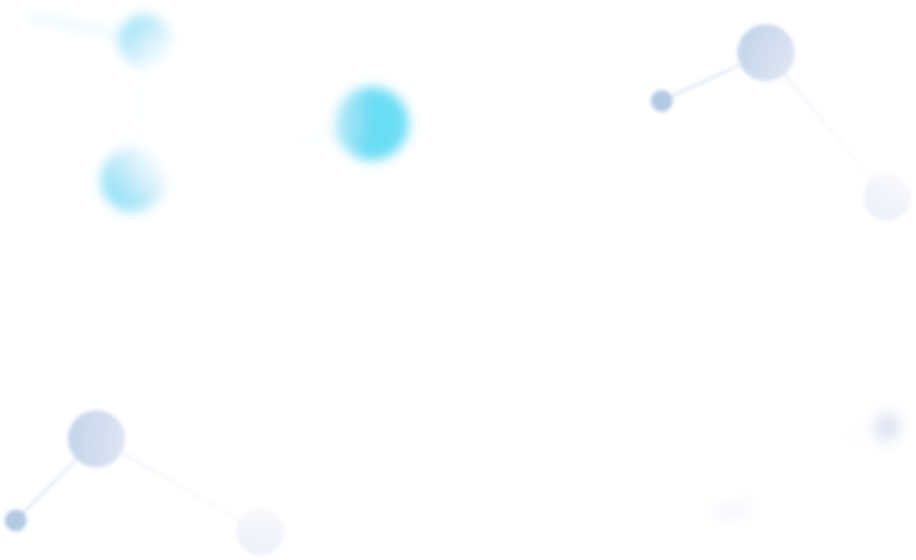
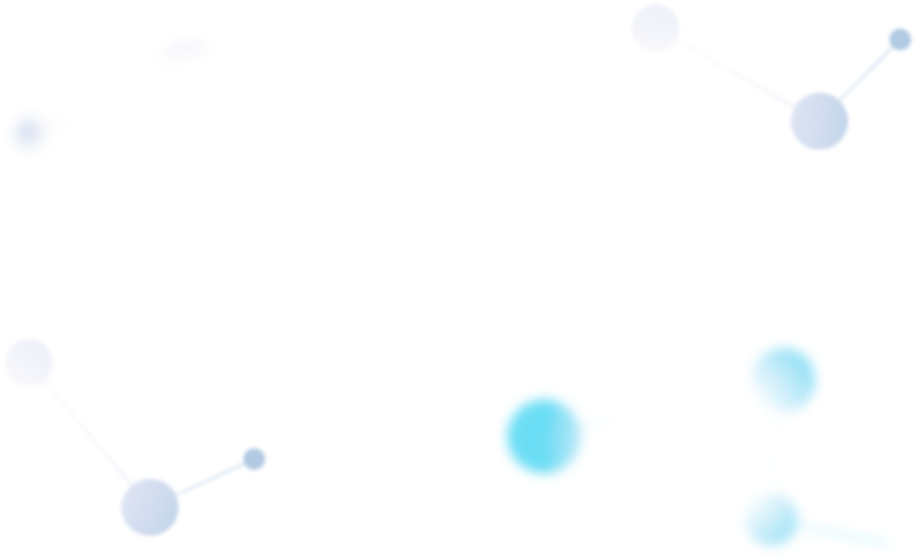
upd

diff --git a/src/scss/modules/success.scss b/src/scss/modules/success.scss
@@ -1,18 +1,29 @@
 .success {
 
+    color: #ffffff;
+    text-transform: uppercase;
+    font-weight: bold;
+
     &-wrap {
     position: relative;
     width: 100%;
-    height: 516px;
+    height: 561px;
     background-image: url(../img/success_bg.png);
     z-index: 0;
+    text-align: center;
     }
 
     &-penoboard {
-        position: absolute;
+        position: absolute;        
+        left: 0;
+        bottom: -5%;
         width: 100%;
-        height: 50%;
-        background-image: url();
+        height: 187px;
+        background-image: url(../img/penoboard.png);
+        background-repeat: no-repeat;
+        background-size: auto;
+        background-position: center center;
+        z-index: 2;        
     }
 
     &-balls--1 {
@@ -25,6 +36,7 @@
         background-repeat: no-repeat;
         background-size: auto;
         background-position: left center;
+        z-index: 2;
     }
 
     &-balls--2 {
@@ -37,6 +49,7 @@
         background-repeat: no-repeat;
         background-size: auto;
         background-position: right bottom;
+        z-index: 2;
         
     }
 
@@ -50,9 +63,31 @@
         background-repeat: no-repeat;
         background-size: auto;
         background-position: left center;
+        z-index: 2;
     }
 
     &-balls--4 {
+        position: absolute;
+        right: 0;
+        top: 0;
+        width: 100%;
+        height: 560px;
+        background-image: url(../img/balls4.png);
+        background-repeat: no-repeat;
+        background-size: auto;
+        background-position: right center;
+        z-index: 2;
         
+    }
+
+    &-territory-bg{
+        position: absolute;
+        width: 330px;
+        height: 330px;
+        opacity: 0.82;
+        filter: blur(5px);
+        border-radius: 50%;  
+        background-color: #04366d;
+        z-index: 50;
     }
 }

diff --git a/src/scss/modules/footer.scss b/src/scss/modules/footer.scss
@@ -7,8 +7,99 @@
     color: #ffffff;    
     font-size: 24px;
 
+    &-logo {
+        margin-top: 15px;
+        margin-bottom: -4px;
+    }
+
+    &-copyright {
+        font-size: 12px;
+        font-weight: bold;
+        margin-top: 4px;
+    }
+
+    &-social-title {
+        font-size: 12px;
+        font-weight: bold;
+        margin-top: 10px;
+    }
+
     &-social {
         display: flex;
+        margin-top: 6px;
+        margin-bottom: 7px;
+        color: #ffffff;
     }
+
+    &-social__linkedin {
+        margin-right: 10px;
+
+        &:hover a {
+            color: #0073b1;
+        }
+    }
+
+    &-social__vk {        
+
+        &:hover a {
+            color:  #4c75a3;
+        }
+    }
+
+    &-social__link {
+        color: #ffffff;        
+    }
+
+    .iconify {
+        font-size: 35px;
+    }    
+
+    &-banner-title {
+        display: flex;
+        font-size: 10px;
+        font-weight: bold;
+        color: #ffffff;
+        text-transform: uppercase;
+        margin-top: 4px;
+        margin-bottom: 16px;
+    }
+
+    &-banner__link {
+        font-size: 10px;
+        font-weight: bold;
+        color: #ffffff;
+        letter-spacing: .5px; 
+        
+        &:hover {
+            color: #084612;
+            text-shadow: 1px 1px 2px #084612;
+        }
+
+        &:active {                      
+            text-shadow: none;
+        }
+    }
+
+    &-develop-title {
+        font-size: 12px;
+        color: #ffffff;
+        font-weight: bold;
+        text-transform: uppercase;
+    }
+
+    &-develop__link {
+        color: #ffffff;
+
+        &:hover {
+            color: #084612;
+            text-shadow: 1px 1px 2px #084612;
+        }
+
+        &:active {                                  
+            text-shadow: none;
+        }
+    }
+
+
 }
 

diff --git a/src/js/parralax.js b/src/js/parralax.js
@@ -1,7 +1,15 @@
 $(window).scroll(function () {
     const scroll = $(window).scrollTop();
+    const offset = $(".success-wrap").offset().top;
 
+    console.log(offset-200);
     console.log(scroll);
+    console.log((offset-500)/scroll);
+
+    $(".success-penoboard").css({
+        bottom: ((scroll/15)-5) + "%",
+        opacity: (offset-500)/scroll        
+    })
 
     $(".success-balls--1").css({
         bottom: ((scroll/20)-100) + "%"
@@ -13,6 +21,11 @@ $(window).scroll(function () {
 
     $(".success-balls--3").css({
         left: -scroll/60 + "%",
+        top: scroll/40 + "%",
+    })
+
+    $(".success-balls--4").css({
+        right: -scroll/60 + "%",
         top: scroll/40 + "%",
     })
     

diff --git a/src/scss/modules/certificate.scss b/src/scss/modules/certificate.scss
@@ -1,11 +1,11 @@
 .certif {
-    height: 704px;
+    height: 764px;
     position: relative;
     text-align: center;
-    background-color: #fff;
+    background-color: #fff;    
 
     &-logo {
-        margin-top: 59px;
+        padding-top: 59px;
         margin-bottom: 11px;
     }
 

diff --git a/src/scss/modules/info.scss b/src/scss/modules/info.scss
@@ -5,6 +5,7 @@
     background-size: cover;
     background-position: center;
     font-family: Arial;
+    z-index: 5;
 
     &-container {
         display: flex;
